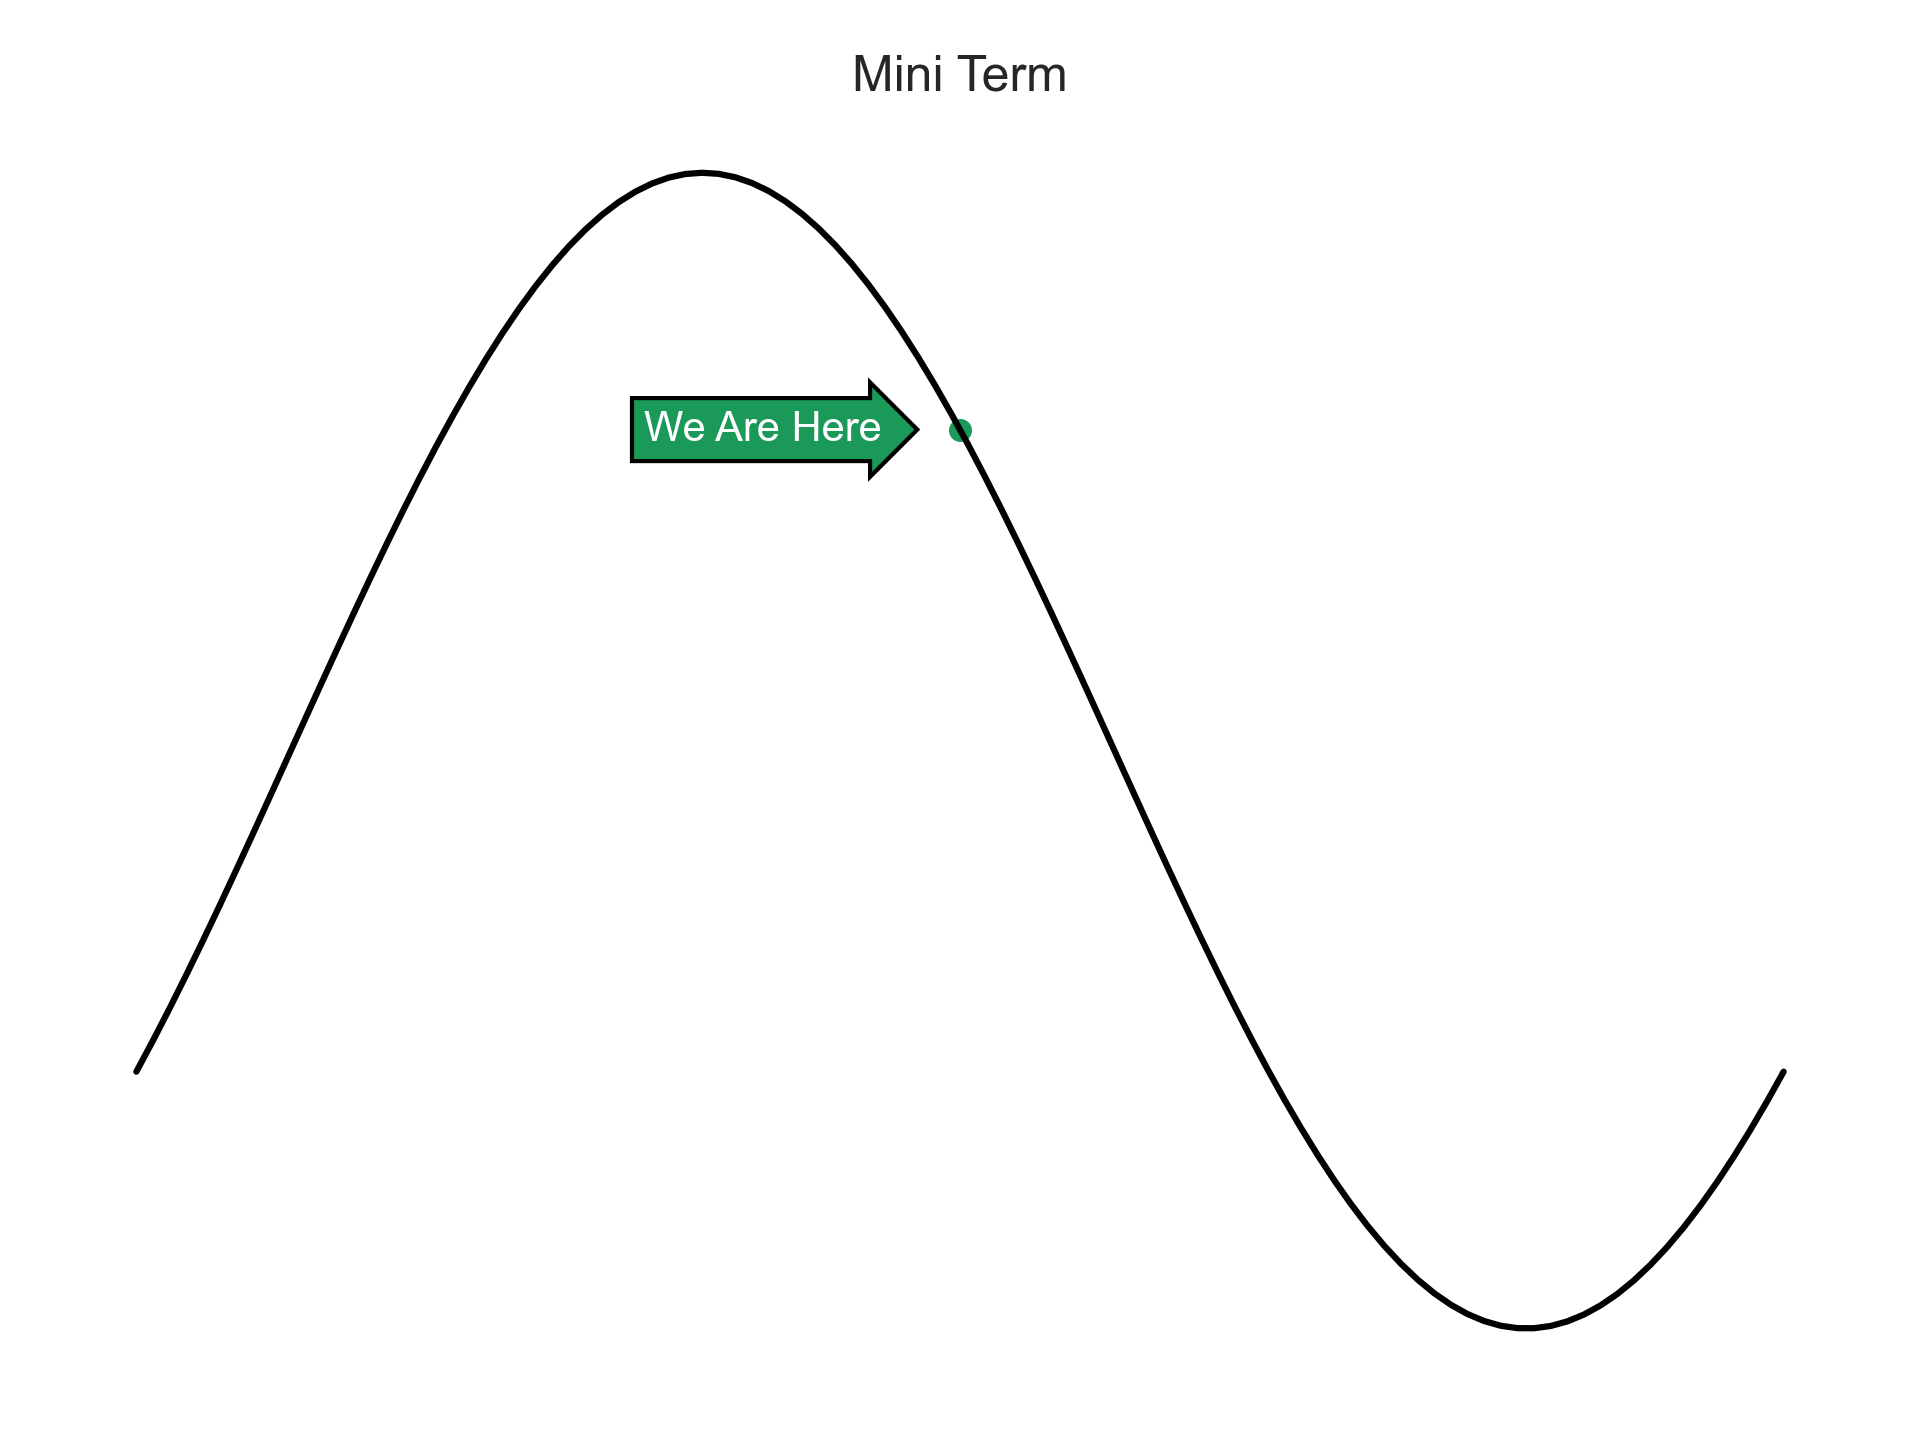
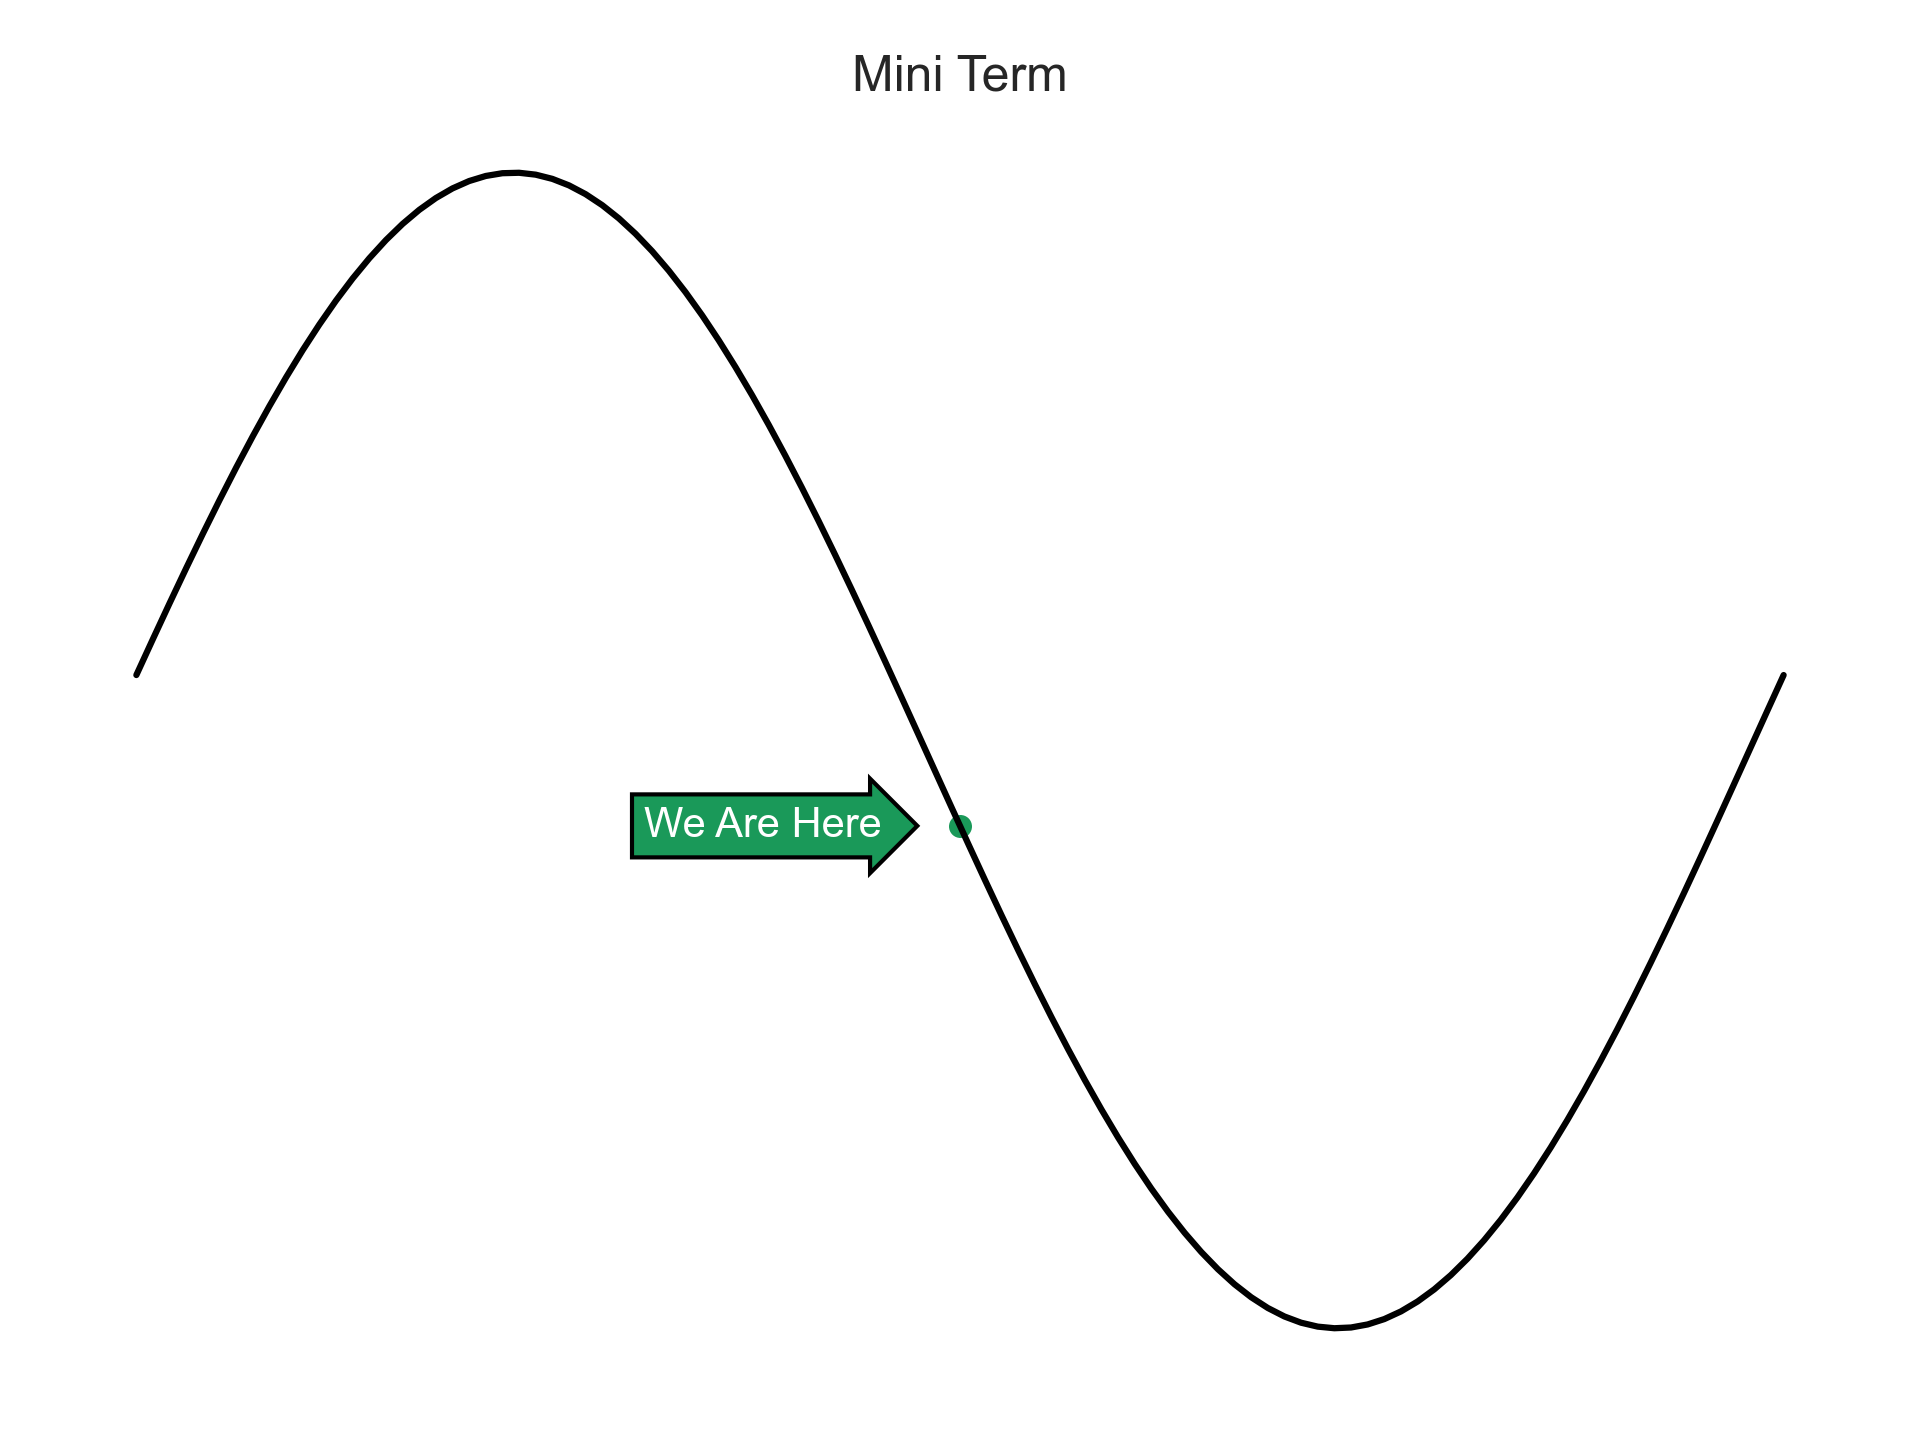
Update Testimonials

diff --git a/src/pages/index.js b/src/pages/index.js
@@ -175,109 +175,65 @@ export default function Home() {
                         </Row>
                     </Container>
 
-                    <Container
-                        style={{backgroundColor: 'whitesmoke', borderRadius: '0 0 25px 25px', padding: '25px'}}>
-                        <Card>
-                            <h1 style={{textAlign: 'center', padding: '50px'}}>
-                                Testimonials
-                            </h1>
-                            <CardGroup style={{margin: '15px'}}>
-                                <Row>
-                                    <Col xs={12} md={6} lg={3}>
-                                        <Card>
-                                            <Card.Body>
-                                                <Card.Header>
-                                                    Email us to put your review here!
-                                                </Card.Header>
-                                                <Card.Text style={{textAlign: 'center', padding: '5px'}}>
-                                                    *** Your Review! ***
-                                                </Card.Text>
-                                            </Card.Body>
-                                            <Container
-                                                style={{
-                                                    display: 'flex',
-                                                    justifyContent: 'center',
-                                                    marginBottom: '16px'
-                                                }}>
-                                                <Button style={{width: '80%'}}
-                                                        href={'mailto:jusrogersdata@gmail.com'}
-                                                        variant={'outline-dark'}>Email
-                                                    Us</Button>
-                                            </Container>
-                                        </Card>
-                                    </Col>
-                                    <Col xs={12} md={6} lg={3}>
-                                        <Card>
-                                            <Card.Body>
-                                                <Card.Header>
-                                                    Email us to put your review here!
-                                                </Card.Header>
-                                                <Card.Text style={{textAlign: 'center', padding: '5px'}}>
-                                                    *** Your Review! ***
-                                                </Card.Text>
-                                            </Card.Body>
-                                            <Container
-                                                style={{
-                                                    display: 'flex',
-                                                    justifyContent: 'center',
-                                                    marginBottom: '16px'
-                                                }}>
-                                                <Button style={{width: '80%'}}
-                                                        href={'mailto:jusrogersdata@gmail.com'}
-                                                        variant={'outline-dark'}>Email
-                                                    Us</Button>
-                                            </Container>
-                                        </Card>
-                                    </Col>
-                                    <Col xs={12} md={6} lg={3}>
-                                        <Card>
-                                            <Card.Body>
-                                                <Card.Header>
-                                                    Email us to put your review here!
-                                                </Card.Header>
-                                                <Card.Text style={{textAlign: 'center', padding: '5px'}}>
-                                                    *** Your Review! ***
-                                                </Card.Text>
-                                            </Card.Body>
-                                            <Container
-                                                style={{
-                                                    display: 'flex',
-                                                    justifyContent: 'center',
-                                                    marginBottom: '16px'
-                                                }}>
-                                                <Button style={{width: '80%'}}
-                                                        href={'mailto:jusrogersdata@gmail.com'}
-                                                        variant={'outline-dark'}>Email
-                                                    Us</Button>
-                                            </Container>
-                                        </Card>
-                                    </Col>
-                                    <Col xs={12} md={6} lg={3}>
-                                        <Card>
-                                            <Card.Body>
-                                                <Card.Header>
-                                                    Email us to put your review here!
-                                                </Card.Header>
-                                                <Card.Text style={{textAlign: 'center', padding: '5px'}}>
-                                                    *** Your Review! ***
-                                                </Card.Text>
-                                            </Card.Body>
-                                            <Container
-                                                style={{
-                                                    display: 'flex',
-                                                    justifyContent: 'center',
-                                                    marginBottom: '16px'
-                                                }}>
-                                                <Button style={{width: '80%'}}
-                                                        href={'mailto:jusrogersdata@gmail.com'}
-                                                        variant={'outline-dark'}>Email
-                                                    Us</Button>
-                                            </Container>
-                                        </Card>
-                                    </Col>
-                                </Row>
-                            </CardGroup>
-                        </Card>
+                    <Container>
+                        <h1 style={{textAlign: 'center', padding: '25px'}}>
+                            Testimonials
+                        </h1>
+                        <CardGroup>
+                            <Row>
+                                <Col md={12} lg={4}>
+                                    <Card>
+                                        <Card.Body>
+                                            <Card.Header>
+                                                Data-Driven
+                                            </Card.Header>
+                                            <Card.Text style={{textAlign: 'center', padding: '5px'}}>
+                                                Everything is very easy to understand and read. I love how the findings
+                                                are
+                                                backed by data and science! I think the research section is the best
+                                                part
+                                                where
+                                                I can compare assets to pick and choose from for my own investments.
+                                            </Card.Text>
+                                        </Card.Body>
+                                    </Card>
+                                </Col>
+                                <Col md={12} lg={4} style={{padding: '15px'}}>
+                                    <Card>
+                                        <Card.Body>
+                                            <Card.Header>
+                                                Great Seasons!
+                                            </Card.Header>
+                                            <Card.Text style={{textAlign: 'center', padding: '5px'}}>
+                                                Market and Asset Seasons are a great help in understanding where the
+                                                market
+                                                is
+                                                and for what. I love that inflation is taken into account so I know how
+                                                well
+                                                the
+                                                economy is and where it&apos;s headed
+                                            </Card.Text>
+                                        </Card.Body>
+                                    </Card>
+                                </Col>
+                                <Col md={12} lg={4}>
+                                    <Card>
+                                        <Card.Body>
+                                            <Card.Header>
+                                                Accurate Seasons and Weightings
+                                            </Card.Header>
+                                            <Card.Text style={{textAlign: 'center', padding: '5px'}}>
+                                                Super Accurate Seasons and Weightings. I check the daily updates before
+                                                doing
+                                                anything in the markets to make sure what I&apos;m doing is a smart
+                                                decision.
+                                                Reliable and consistently updated (a lot!).
+                                            </Card.Text>
+                                        </Card.Body>
+                                    </Card>
+                                </Col>
+                            </Row>
+                        </CardGroup>
                     </Container>
 
                     <Container>

diff --git a/src/pages/auth-pricing.js b/src/pages/auth-pricing.js
@@ -67,7 +67,7 @@ export default function AuthPricing() {
                         : <Container><h1>Login</h1></Container>
                 }
                 <Container style={{padding: '25px'}}>
-                    <h1 style={{textAlign: 'center', padding: '50px'}}>
+                    <h1 style={{textAlign: 'center', padding: '25px'}}>
                         Testimonials
                     </h1>
                     <CardGroup>

diff --git a/src/pages/pricing.js b/src/pages/pricing.js
@@ -246,7 +246,7 @@ export default function Pricing() {
                         one of our plans with a 3 day trial now</Link></h1>
                 </Container>
                 <Container>
-                    <h1 style={{textAlign: 'center', padding: '50px'}}>
+                    <h1 style={{textAlign: 'center', padding: '25px'}}>
                         Testimonials
                     </h1>
                     <CardGroup>
